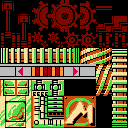
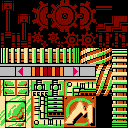
fixed pixel d'alpha tout le tour des sprites
et rendu le gym plus beau

Changed region(s): [[0.5, 0.625, 0.75, 0.75]]

diff --git a/DxProject/animation.cpp b/DxProject/animation.cpp
@@ -43,11 +43,11 @@ RECT Animation::getCurrentFrame() const
 {
     RECT rectangle;
 
-    rectangle.left = m_startFrameCorner.first + (m_frameSize * (m_currentFrame-1));
+    rectangle.left = m_startFrameCorner.first + (m_frameSize * (m_currentFrame - 1));
     rectangle.top = m_startFrameCorner.second;
     
-    rectangle.right = m_startFrameCorner.first + (m_frameSize * m_currentFrame) - 1;
-    rectangle.bottom = m_startFrameCorner.second + m_frameSize - 1;
+    rectangle.right = m_startFrameCorner.first + (m_frameSize * m_currentFrame);
+    rectangle.bottom = m_startFrameCorner.second + m_frameSize;
 
     return rectangle;
 }

diff --git a/DxProject/entity.cpp b/DxProject/entity.cpp
@@ -66,6 +66,12 @@ void Entity::setCurrentAnimation(const std::string& animName)
     }
 }
 
+void Entity::setCurrentAnimation(const std::string& animName, int offSetFrame)
+{
+    this->setCurrentAnimation(animName);
+    m_animList[m_currentAnim].m_currentFrame += offSetFrame;
+}
+
 void Entity::setPosition(int x, int y)
 {
     m_pos.x = x;

diff --git a/DxProject/entity.h b/DxProject/entity.h
@@ -18,6 +18,7 @@ public:
     void init(const LPDIRECT3DDEVICE9&, const std::string&);
     
     void setCurrentAnimation(const std::string&);
+    void setCurrentAnimation(const std::string&, int);
     void setPosition(int, int);
 
     virtual void update(long int elapsed);
